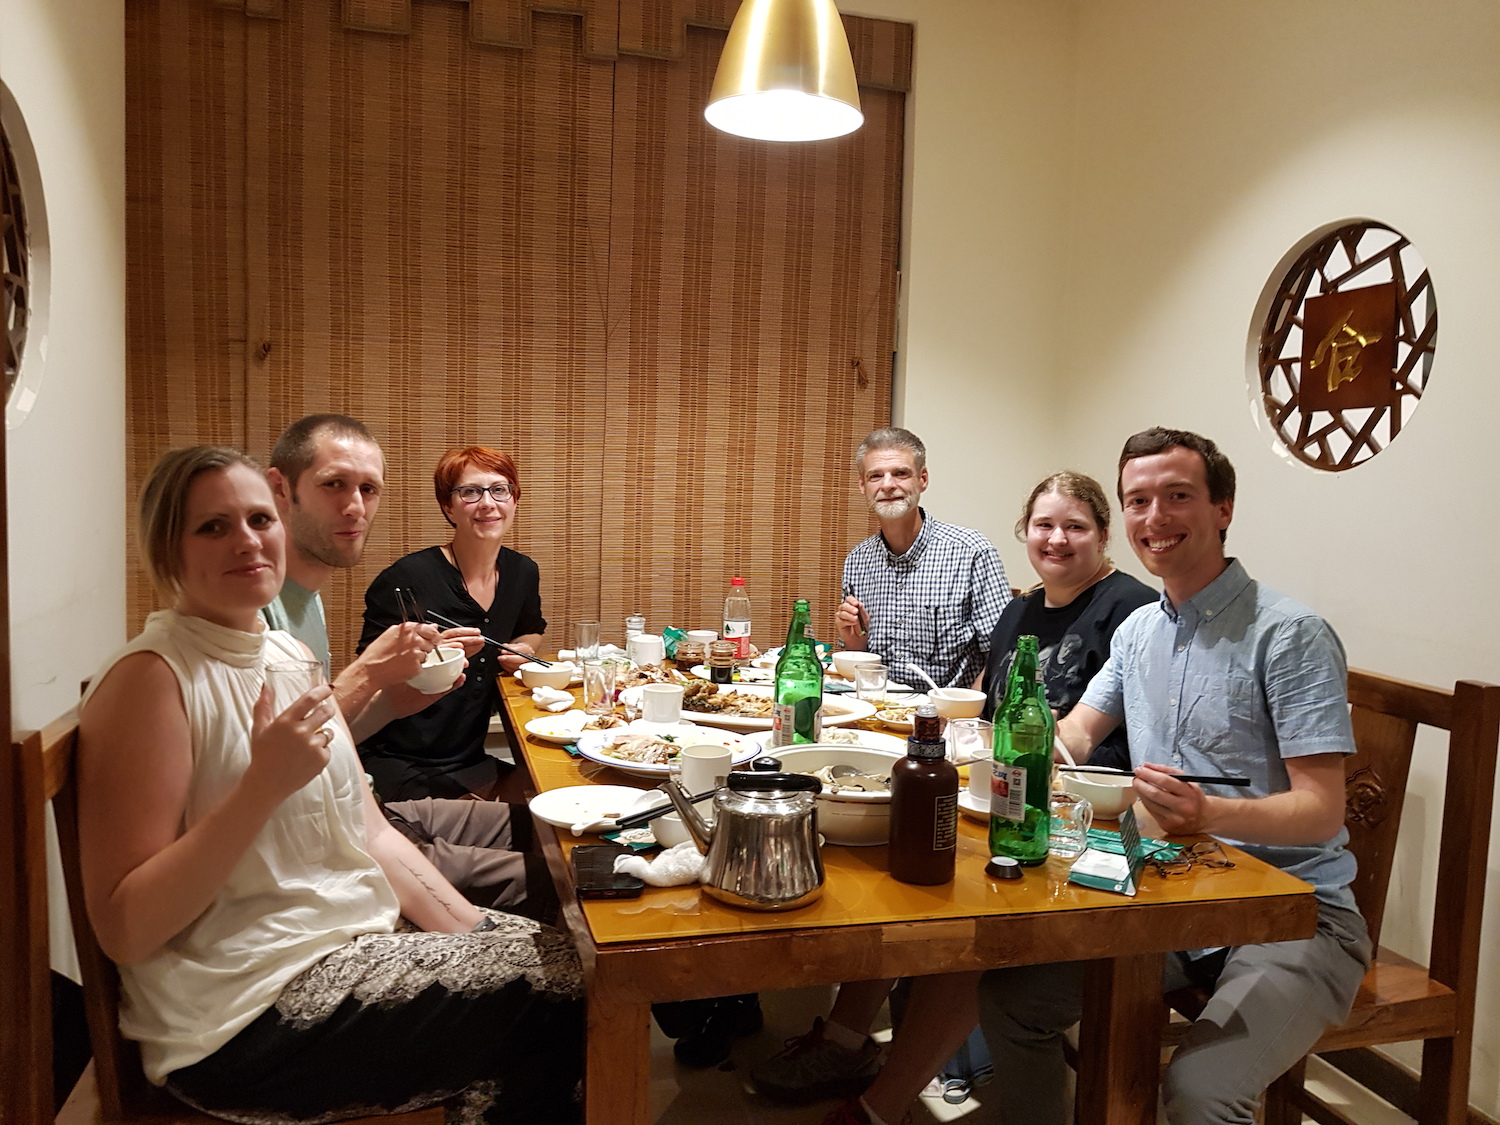
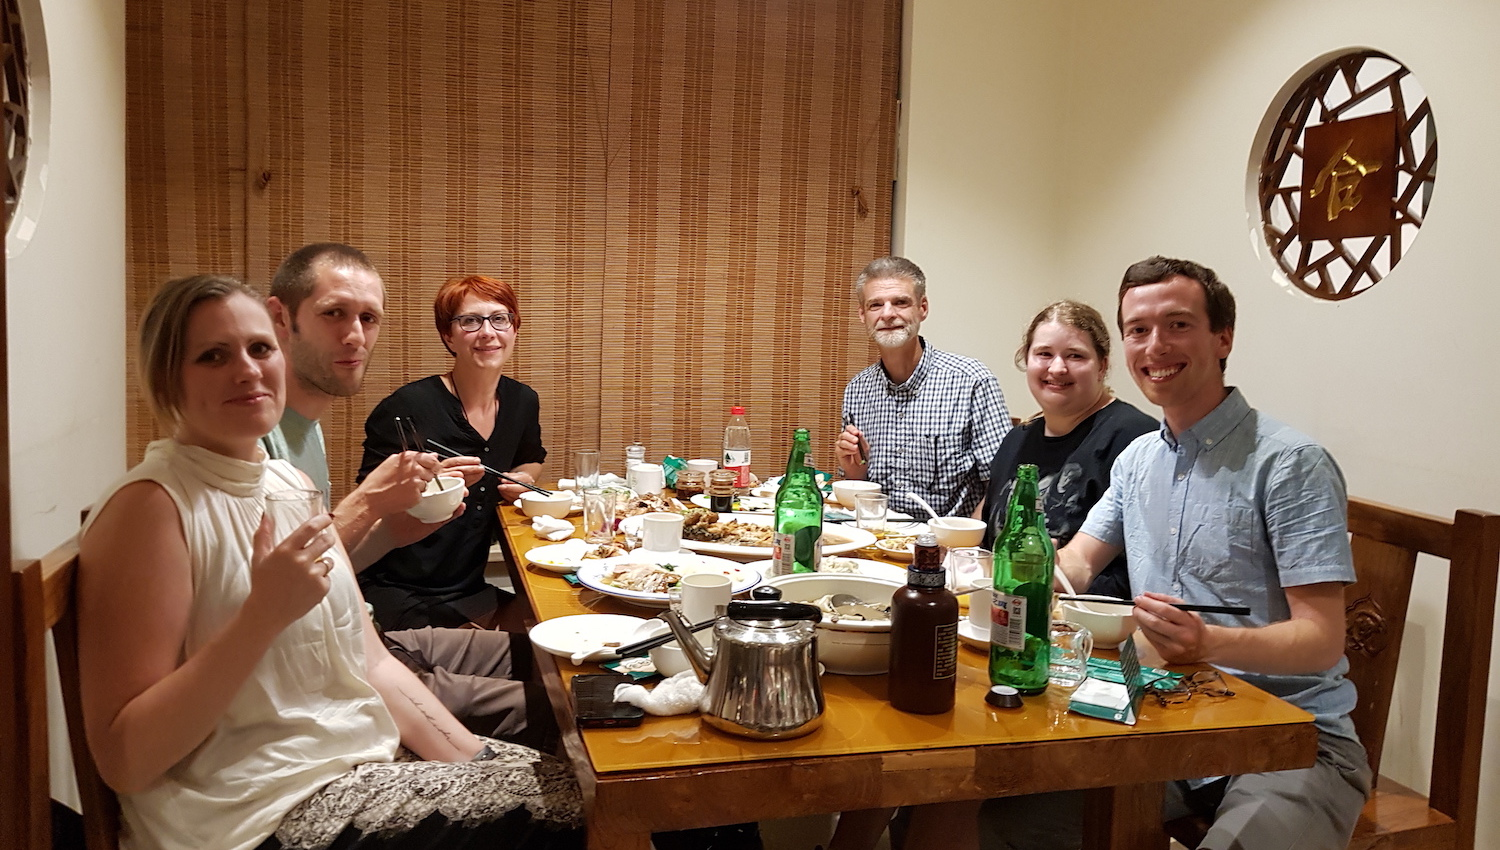
Review IRAC post, scale images + add gif

diff --git a/_posts/2019-10-28-irac.md b/_posts/2019-10-28-irac.md
@@ -6,21 +6,22 @@ author: [Silke Bauer]
 categories: [meetings]
 ---
 
-Part of the international aeroecological community, including many GloBAM partners, has been in Zhengzhou, China for the [2nd International Radar Aeroecology Conference](https://hysite.txlcinfo.com/Portal/Index). It was a great meeting – not only because we saw again many old friends and colleagues, but we also made many new ones. Our Chinese hosts have been extremely attentive and treated us to yummy Chinese food!
+The international aeroecology community gathered in Zhengzhou, China for the [2nd International Radar Aeroecology Conference](https://hysite.txlcinfo.com/Portal/Index). Our Chinese hosts were extremely attentive and treated us to yummy Chinese food! It was great to meet friends and colleagues - including many GloBAM partners - and make new ones. Presentations were excellent and are all available [on the conference website](https://hysite.txlcinfo.com/Portal/PPTdownloadIndex).
 
 ![img](/assets/images/2019-10-28-irac-group-photo.jpg)
-_Participants of the 2nd international conference of radar aeroecology at the crop innovation center in Zhengzhou._
+_Participants of the main conference at the Crop Innovation Center of Henan in Zhengzhou._
 
-There were 33 presentation and pdf-copies of all of them can be found at the [conference website](https://hysite.txlcinfo.com/Portal/PPTdownloadIndex). Since my presentation was the last one of the conference, I tried to assign all contributions to the [grand challenges in migration ecology that we identified earlier]( https://onlinelibrary.wiley.com/doi/full/10.1111/ecog.04083) and also drew a few personal conclusions that I repeat here: Interestingly, there were contributions for all migration-ecology challenges that we identified! Perhaps this is not so surprising after all – as several of us identified the challenges (and the international network helped scoring them), it’s perhaps a logical consequence that we also work on them. But still, the diversity of topics was high - from identification of migration routes, important sites, and continental flyways to quantifications of migrant numbers and biomasses; from environmental influences to the effects of migrants on communities and ecosystems; from climate change effects to impact of human-made structures. Finally, many contributions also dealt with methodological and technical challenges that come with the installation of new radar technology. Especially, new methods of identifying shape, size or other characteristics of insects or birds. And, of course, many talks addressed more than one challenge.
+Since my presentation was the last one of the conference, I tried to assign all contributions to the **grand challenges in migration ecology that we identified earlier** ([Bauer et al. 2019](https://doi.org/10.1111/ecog.04083)) and also drew a few personal conclusions that I'll repeat here:
 
-Summarizing across talks, I found the continental differences in research focus and primary taxa studied quite fascinating. For instance, research is clearly bird-biased in the US and Europe while insects are the main focus in Chinese aeroecology, and hardly anything has been done with the respectively other taxon. Naturally, these differences result from varying research histories, varying incentives from the public, or from economy or agriculture (pest insects have long been an issue in Chinese agriculture) and varying data accessibility. This raises interesting questions about how similar or different bird/insect migration is in China, the US and Europe – in terms of patterns, numbers, etc. – which, I’m sure, we could tackle within the next years.
-
-Apart from these differences, there were also interesting several similarities in research questions that seem to be shared globally, e.g. on the response of birds and insects to wind, and the impact of human structures such as wind turbines on bird movements.  
+1. There were contributions for all migration-ecology challenges that we identified! Since several of us identified the challenges (and the international network helped scoring them), it is perhaps a logical consequence that we also work on them. But still, the diversity of topics was high - from identification of migration routes, important sites, and continental flyways to quantifications of migrant numbers and biomasses; from environmental influences to the effects of migrants on communities and ecosystems; from climate change effects to impact of human-made structures.
+2. Many contributions dealt with methodological and technical challenges that come with the installation of new radar technology. Especially new methods for identifying shape, size or other characteristics of insects or birds.
+3. Summarizing across talks, I found the continental differences in research focus and primary taxa studied quite fascinating. For instance, research is clearly bird-biased in the US and Europe while insects are the main focus in Chinese aeroecology. Naturally, these differences result from varying research histories, data accessibility, incentives from the public, or from economy or agriculture (pest insects have long been an issue in Chinese agriculture). This raises interesting questions regarding how similar or different bird/insect migration is in China, the US and Europe – in terms of patterns, numbers, etc. – which, I’m sure, we could tackle within the next years.
+4. Apart from these differences, there were also several interesting similarities in research questions that we seem to share globally, e.g. the response of birds and insects to wind, and the impact of human structures such as wind turbines on bird movements.
 
 ![img](/assets/images/2019-10-28-irac-dinner.jpg)
-_Final conference dinner at a famous noodle place in Zhengzhou. From left to right: Cecilia Nilsson, Peter Desmet, Silke Bauer, Jeff Kelly, Lina Kelly and Ben van Doren._
+_Final conference dinner at a famous noodle place in Zhengzhou. From left to right: Cecilia Nilsson, Peter Desmet, Silke Bauer, Jeff Kelly, Lina Kelly and Benjamin Van Doren._
 
-After all the science, I joined the after-conference excursion to the Shaolin temple in the song mountains, which was astonishing, amazing and fun! (It’s a no-brainer that at any aeroecology conference/meeting/workshop, there will be some bird-watching opportunity, and following this tradition, all die-hard birders and twitchers could go on a bird-watching excursion to the Yellow river wetlands.)
+After all the science, I joined the after-conference excursion to the Shaolin temple in the song mountains, which was astonishing, amazing and fun! (It’s a no-brainer that at an aeroecology conference like this, there also was a bird-watching opportunity - in the Yellow river wetlands - for all the die-hard birders and twitchers.)
 
-![img](/assets/images/2019-10-28-irac-oogway.jpg)
-_Everyone who watched Kung Fu Panda 1-3 in preparation for the visit to China as I did will remember Master Oogway and be extremely delighted to learn that “oogway” is the Chinese word for guess what? … Exactly! I knew Kung Fu Panda was going to be extremely helpful!_
+![img](/assets/images/2019-10-28-irac-oogway.jpg){: .d-inline .w-50}![img](/assets/images/2019-10-28-irac-dinner-2.gif){: .d-inline .w-50}
+_Everyone who watched Kung Fu Panda in preparation for the visit (as I did), will remember Master Oogway, and be extremely delighted to learn that “oogway” is the Chinese word for… guess what? Exactly. I also learned that pretending to be Master Shivu by using a noodle as a moustache is… not easy._
